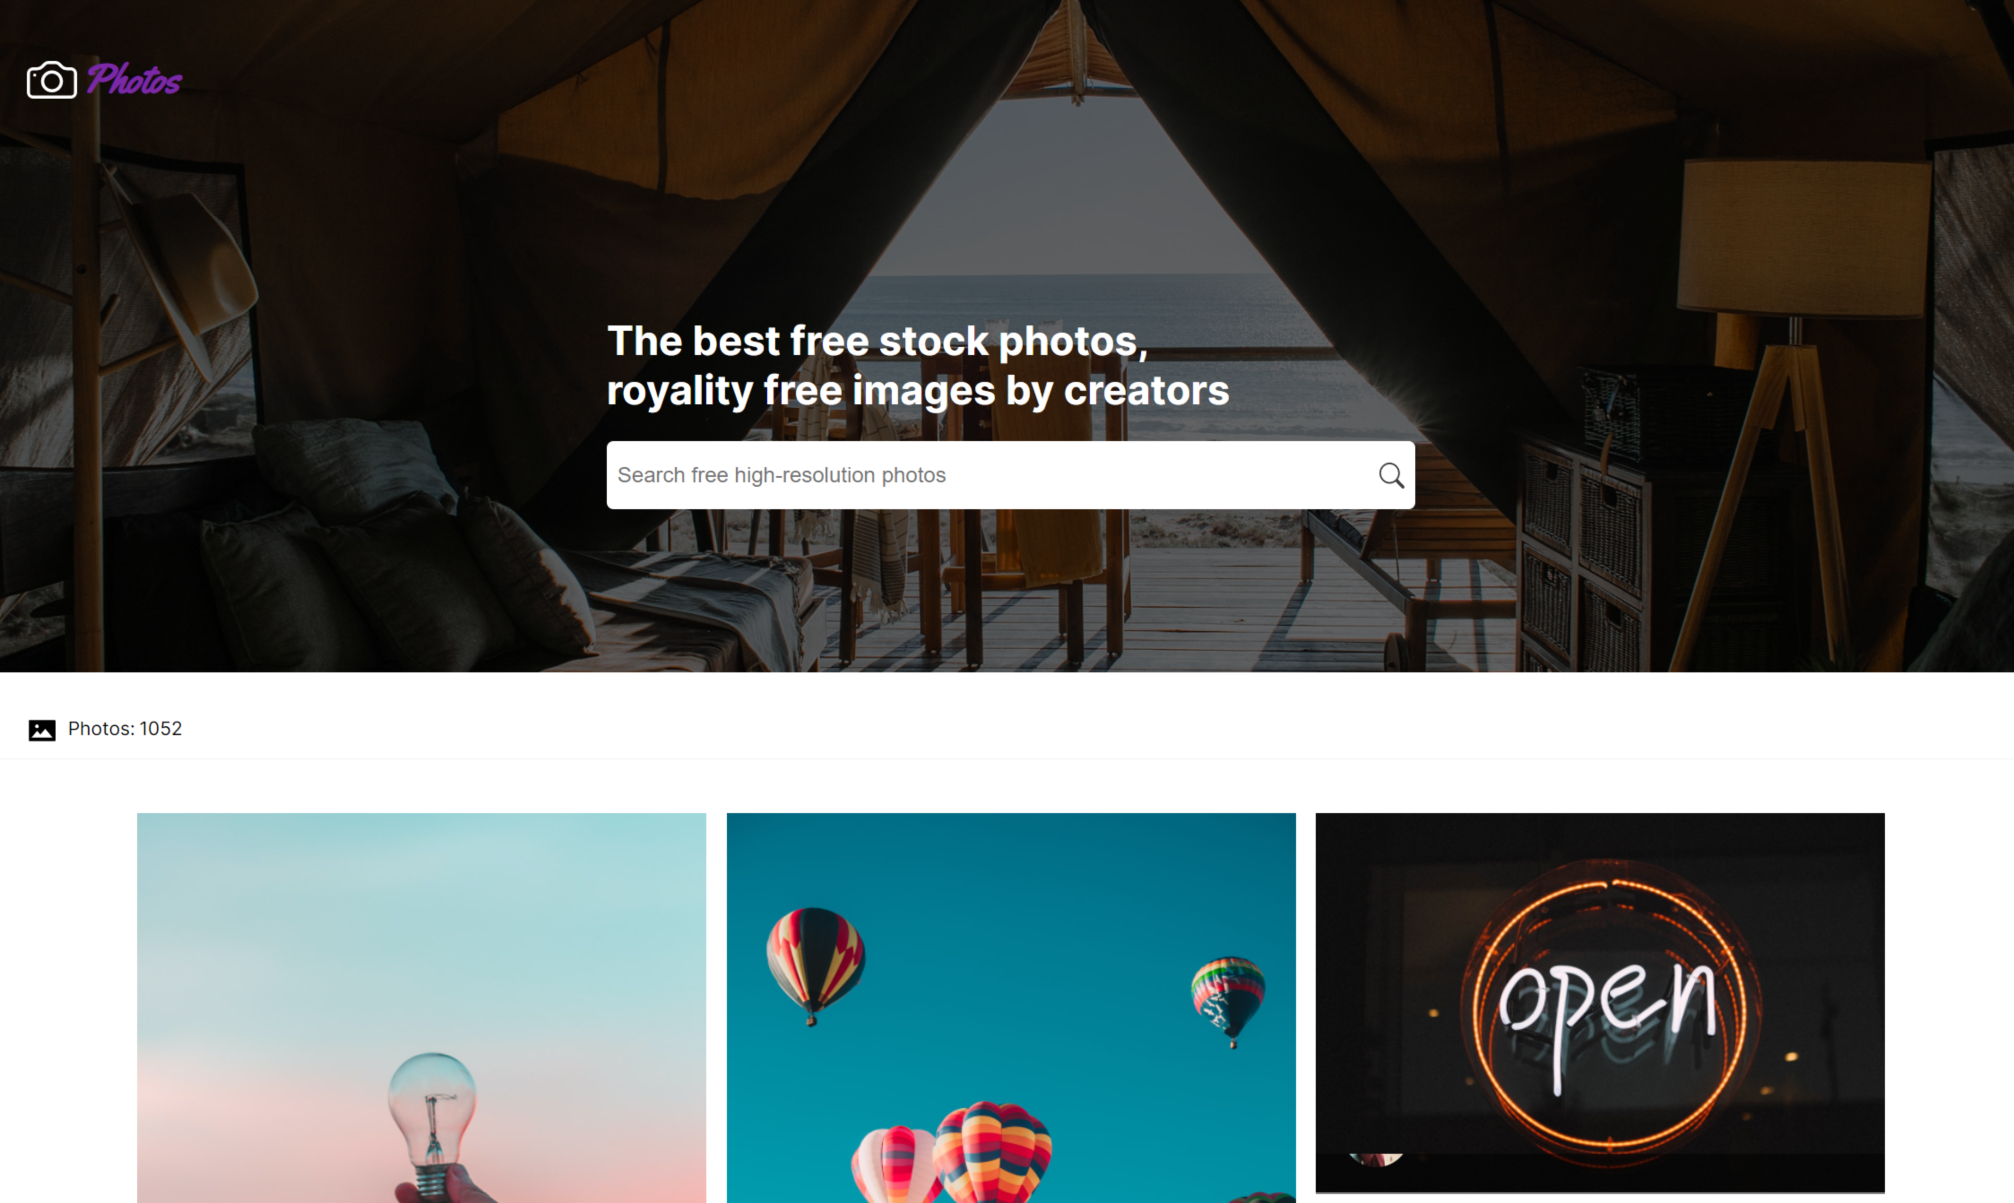
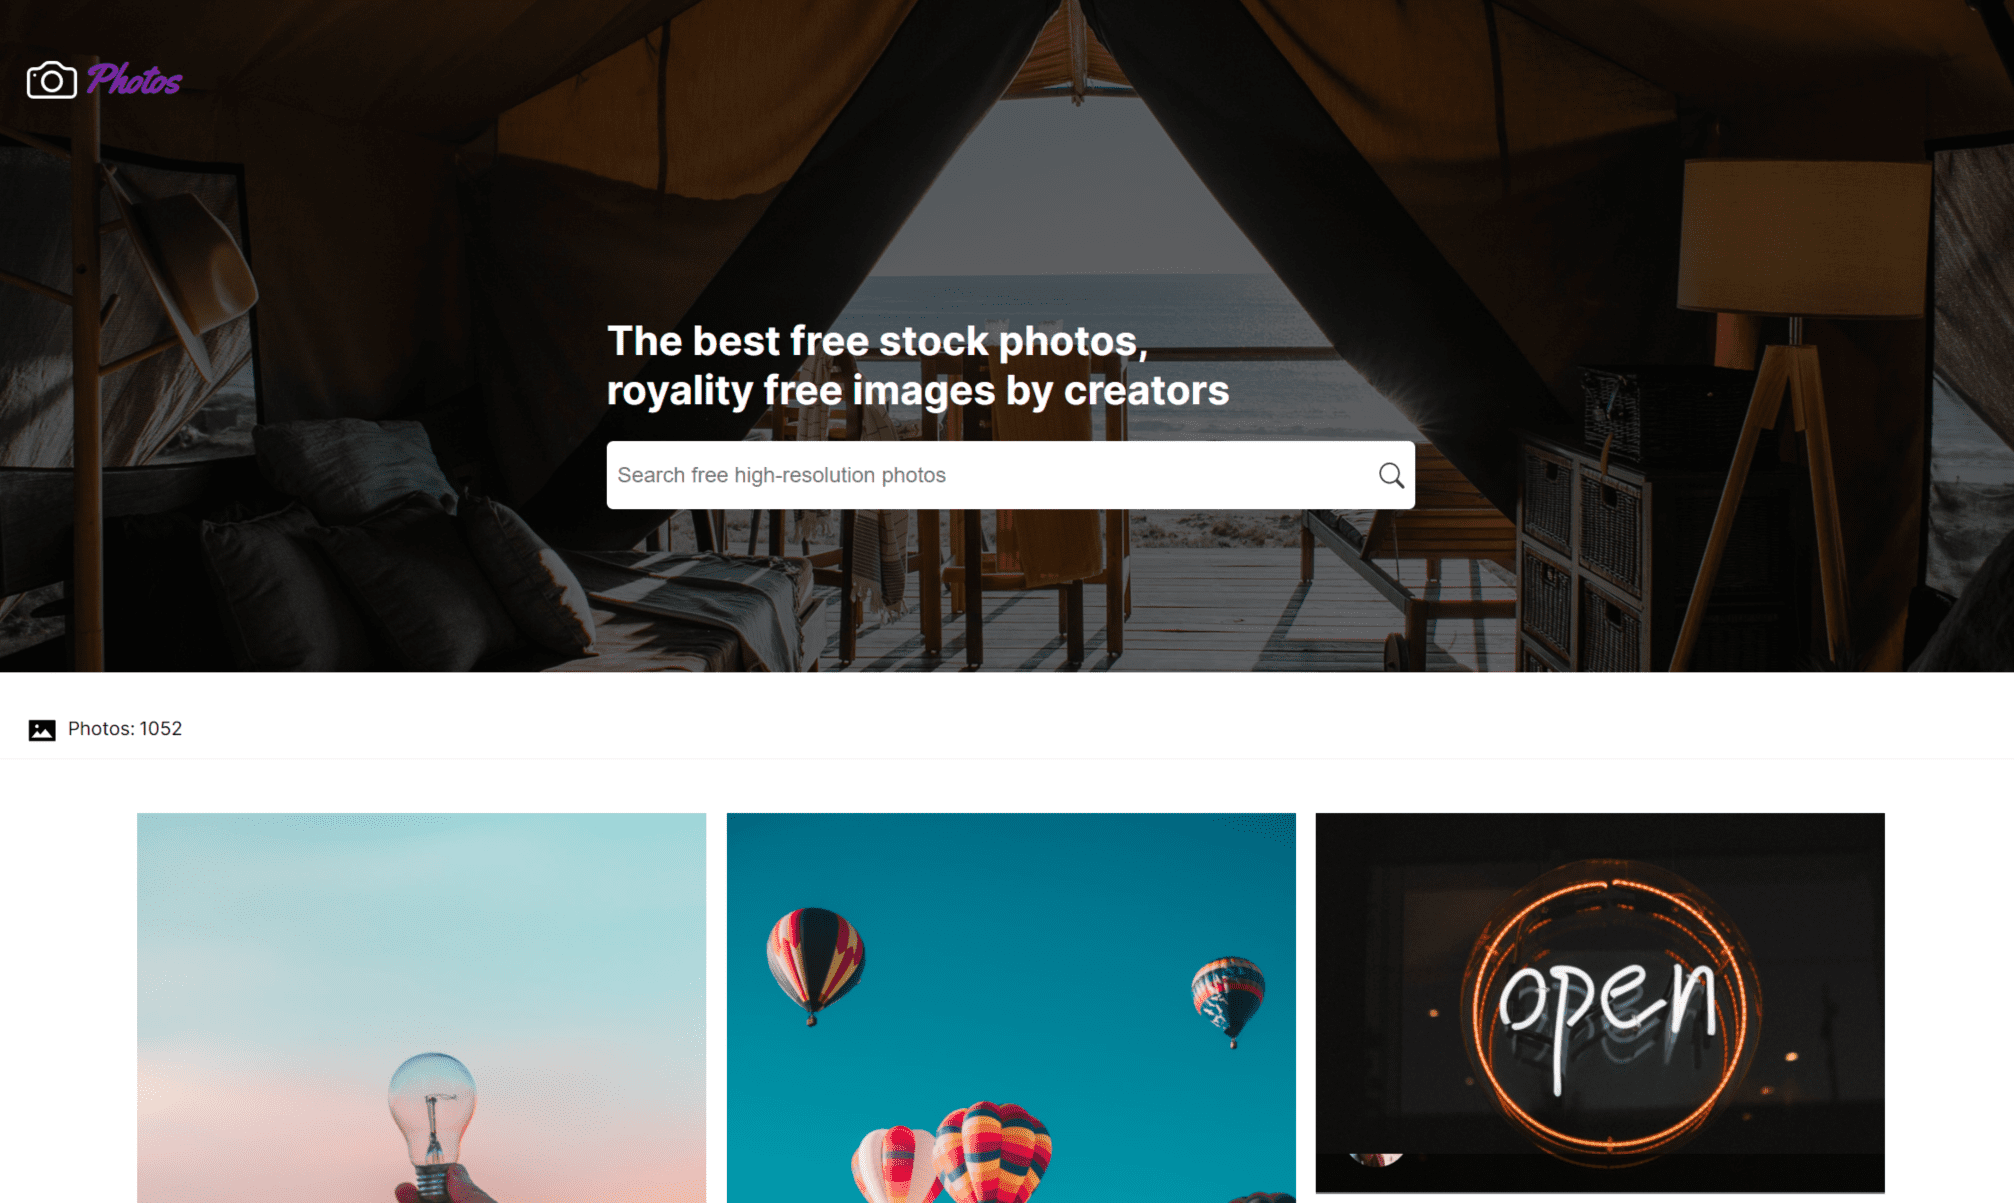
update theme

diff --git a/src/GlobalStyles.js b/src/GlobalStyles.js
@@ -58,9 +58,9 @@ export const darkTheme = {
   textColor: "#fff",
   typeColor: "rgba(189, 164, 203, .5)",
   linkColor: "#00e600",
-  primaryColor: "#99a6b2", //grey
-  secondaryColor: "#cc7000", //orange
-  tertiaryColor: "#098bdc", // blue
+  primaryColor: "#99a6b2", 
+  secondaryColor: "#cc7000", 
+  tertiaryColor: "#098bdc", 
   boldColor: "#663399",
   boxShadow: "rgba(99, 99, 99, 0.2) 0px 2px 8px 0px",
   opacity: "1",
@@ -70,16 +70,16 @@ export const darkTheme = {
 
 export const lightTheme = {
   body: "#fafafa",
-  bodyOffSet: "#e2e6e9",
+  bodyOffSet: "#edf2f7",
   textColor: "#1a1a1a",
   typeColor: "#8b99a7",
   linkColor: "#0000e6",
   primaryColor: "#172436",
   secondaryColor: "#446ca2",
-  tertiaryColor: "#1B21A6", // blue
+  tertiaryColor: "#e6007a",
   boldColor: "#B4B6D9",
   boxShadow: "rgba(99, 99, 99, 0.2) 0px 2px 8px 0px",
   opacity: ".9",
-  border: "1px solid #c5ccd3",
-  borderColor: "#c5ccd3",
+  border: "1px solid #d3d9de",
+  borderColor: "#d3d9de",
 };

diff --git a/src/Theme.js b/src/Theme.js
@@ -8,19 +8,19 @@ export const ThemeContext = createContext({
 })
 
 const Theme = ({ children }) => {
-  const [light, setLight ] = useState(false);
+  const [themeMode, setThemeMode ] = useState();
 
-  const toggleTheme = () => {
-    setLight(!light);
-  }
+   const toggleTheme = () => {
+     themeMode === "light" ? setThemeMode("dark") : setThemeMode("light");
+   };
 
   return (
-    <ThemeContext.Provider value={{isLightTheme: light, toggleTheme}}>
-      <ThemeProvider theme={light ? lightTheme : darkTheme }>
+    <ThemeContext.Provider value={{ isLightTheme: themeMode, toggleTheme }}>
+      <ThemeProvider theme={themeMode === 'light' ? lightTheme : darkTheme}>
         {children}
       </ThemeProvider>
     </ThemeContext.Provider>
-  )
+  );
 }
 
 export default Theme

diff --git a/src/components/NavBar.jsx b/src/components/NavBar.jsx
@@ -38,9 +38,9 @@ const NavContainer = styled.div`
   display: flex;
   flex-direction: column;
   height: 100%;
-  -webkit-box-shadow: 0 4px 6px -6px #222;
-  -moz-box-shadow: 0 4px 6px -6px #222;
-  box-shadow: 0 4px 6px -6px #222;
+  -webkit-box-shadow: 0 4px 6px -6px #cecaca;
+  -moz-box-shadow: 0 4px 6px -6px #cecaca;
+  box-shadow: 0 4px 6px -6px #cecaca;
   margin-bottom: 2px;
 `;
 

diff --git a/src/components/ThemeToggle.jsx b/src/components/ThemeToggle.jsx
@@ -24,13 +24,11 @@ export default ThemeToggle
 
 const ToggleContainer = styled.div`
   padding: 0 10px;
-  border: 1px sild ${props => props.theme.borderColor};
 `;
 
 const Icon = styled.div`
   color: ${(props) => props.theme.primaryColor};
   font-size: 24px;
-  background-color: ${(props) => props.theme.bodyOffSet};
   border-radius: 7px;
   padding: 7px;
   display: flex;

diff --git a/src/data/projects.js b/src/data/projects.js
@@ -8,7 +8,7 @@ export const ProjectSet = [
     image: img01,
     projectLink: "https://grand-lokum-45486f.netlify.app/",
     description:
-      "Built with React and Redux, consuming RESTapi to generate data.",
+      "Built with React, Redux, Sanity, Node.js, css, and material ui",
     codeLink: "https://github.com/nasrah01/react-ecommerce",
   },
   {

diff --git a/src/pages/contact.jsx b/src/pages/contact.jsx
@@ -189,6 +189,12 @@ const Form = styled.form`
     border-radius: 5px;
     padding: 10px 30px;
     margin: 20px 10px;
+    cursor: pointer;
+    transition: 0.5 ease;
+
+    &:hover {
+      border: 2px solid ${(props) => props.theme.tertiaryColor};
+    }
   }
 
   @media screen and (max-width: 700px) {

diff --git a/src/data/skills.js b/src/data/skills.js
@@ -2,7 +2,7 @@ export const skillSet = [
   {
     title: "client",
     category: "src",
-    names: ["Javascript", "React", "Redux", "Typescript", "Next.js", "GraphQl"],
+    names: ["Javascript", "React", "Redux", "Typescript", "GraphQl"],
   },
   {
     title: "styling",

diff --git a/src/pages/home.jsx b/src/pages/home.jsx
@@ -6,6 +6,7 @@ import Typewriter from "typewriter-effect";
 import { Link } from 'react-router-dom'
 
 function Home(props) {
+    
   return (
     <Container>
       <Hero>
